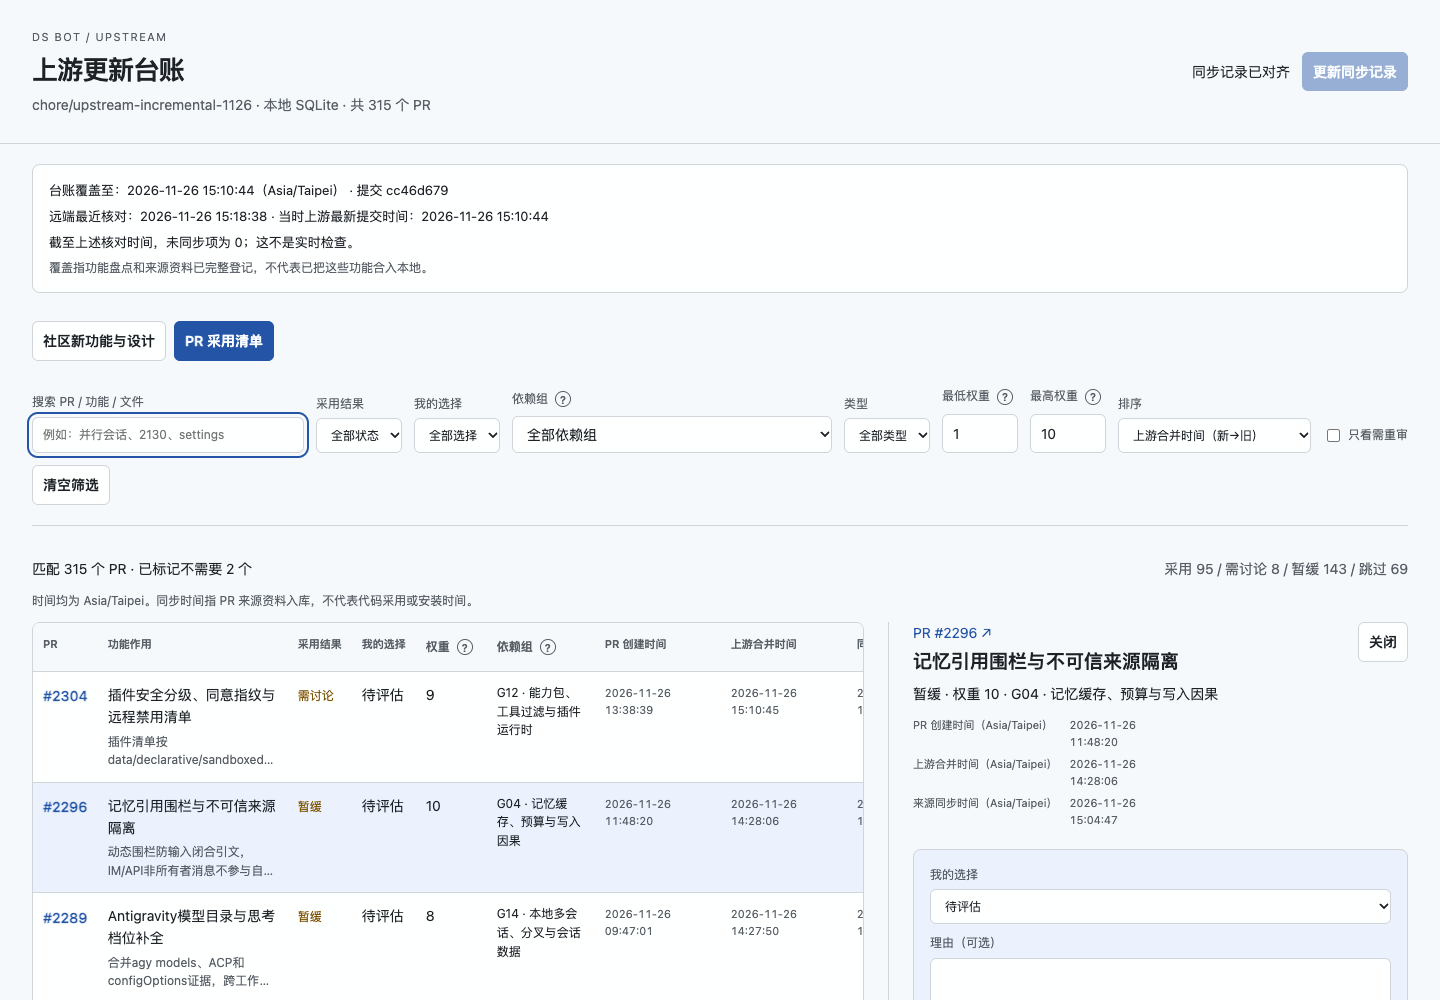
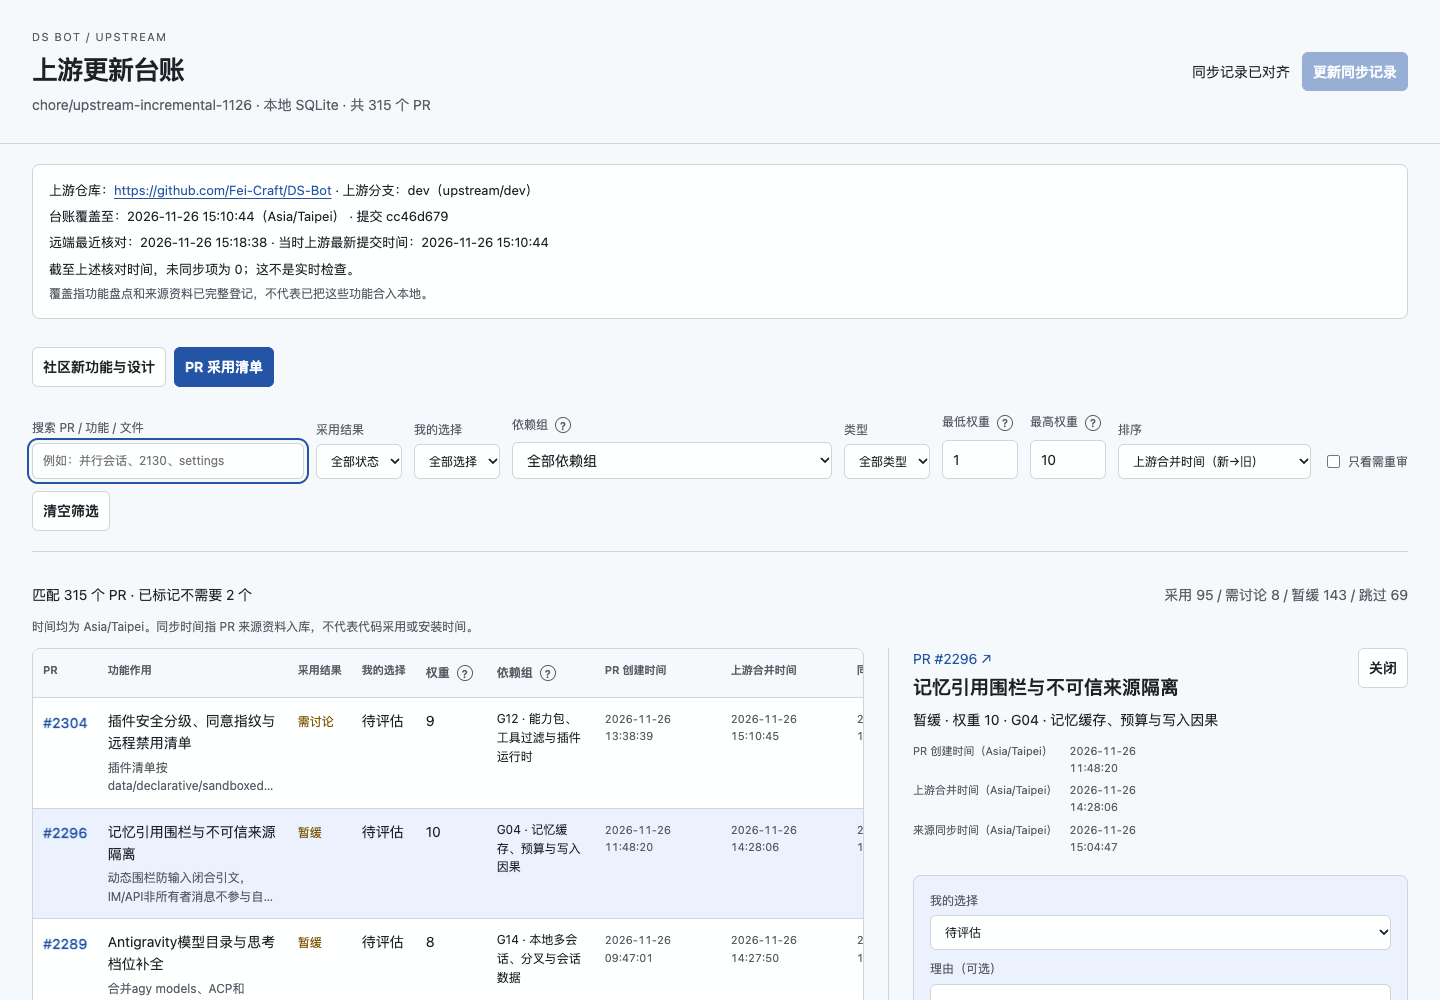
Show the upstream repository and source branch above catalog coverage

diff --git a/scripts/upstream-sync/upstream_catalog/assets/style.css b/scripts/upstream-sync/upstream_catalog/assets/style.css
@@ -8,3 +8,5 @@
 .view-nav{display:flex;gap:8px;margin-bottom:24px;flex-wrap:wrap}.view-nav button[aria-pressed="true"]{background:var(--accent);color:var(--surface);border-color:var(--accent)}.section-intro h2{margin:0 0 8px;font-size:20px}.section-intro p,.update-note{color:var(--muted);font-size:13px;max-width:90ch}.update-note{margin:14px 0 20px;padding:10px 12px;border-left:3px solid var(--accent);background:var(--tint)}#community-detail{min-width:0;position:sticky;top:20px;border-left:1px solid var(--line);padding:0 0 20px 24px;max-height:calc(100vh - 40px);overflow:auto}.entry-open{white-space:normal;text-align:left;font-weight:600}.entry-kind{display:block;font-size:11px;color:var(--muted);margin-top:5px}.local-counts{font-size:12px;min-width:95px}.source-links{display:flex;flex-wrap:wrap;align-items:center;gap:12px;margin:14px 0}.source-links a{color:var(--accent)}.source-panel,.related-pr,.design-reference{margin:16px 0;border-top:1px solid var(--line);padding-top:12px}.related-pr>summary{font-size:13px;line-height:1.6}.source-text{white-space:pre-wrap;overflow-wrap:anywhere;font:12px/1.7 -apple-system,BlinkMacSystemFont,"Segoe UI",sans-serif;max-width:75ch;color:var(--muted)}#community-notice{color:var(--bad);margin-top:12px}#community-empty{padding:24px;color:var(--muted)}@media(max-width:1000px){#community-detail{position:static;max-height:none;border-left:0;border-top:1px solid var(--line);padding:24px 0}}[hidden]{display:none!important}
 
 .coverage{margin:20px 32px 0;padding:14px 16px;border:1px solid var(--line);border-radius:8px;background:var(--surface);font-size:13px;line-height:1.7;overflow-wrap:anywhere}.coverage p+p{margin-top:4px}.coverage p:last-child{color:var(--muted);font-size:12px}@media(max-width:600px){.coverage{margin:16px 16px 0}}
+
+.coverage a{color:var(--accent);text-underline-offset:3px;overflow-wrap:anywhere}

diff --git a/scripts/upstream-sync/upstream_catalog/assets/app.js b/scripts/upstream-sync/upstream_catalog/assets/app.js
@@ -22,6 +22,9 @@ async function loadMeta() {
   $('context').textContent = `${meta.branch} · 本地 SQLite · 共 ${meta.total} 个 PR`
   const coverage = meta.coverage, panel = $('coverage')
   panel.replaceChildren()
+  const repository = element('p', '上游仓库：')
+  repository.append(element('a', meta.source.canonical_url, { href: meta.source.canonical_url, target: '_blank', rel: 'noopener noreferrer' }), document.createTextNode(` · 上游分支：${meta.source.branch}（upstream/${meta.source.branch}）`))
+  panel.append(repository)
   const date = value => value ? new Date(value).toLocaleString('sv-SE', { timeZone: 'Asia/Taipei' }) : '尚未记录'
   if (coverage) {
     panel.append(element('p', `台账覆盖至：${date(coverage.coveredAt)}（Asia/Taipei） · 提交 ${(coverage.checkpoint || '').slice(0, 8)}`))

diff --git a/scripts/upstream-sync/reviews/2026-11-26-upstream-incremental.md b/scripts/upstream-sync/reviews/2026-11-26-upstream-incremental.md
@@ -3,7 +3,7 @@
 本批分支`chore/upstream-incremental-1126`，基线`86410466`，工作树位于项目主目录`.worktree/chore%2Fupstream-incremental-1126/`。主dev仅作只读基线，未移植、合并、打包或部署上游应用代码；本批发布对象是台账与管理页。
 
 1. **排序区分明确。** 提供PR创建时间、上游合并时间、本地评估更新时间三种新到旧排序，原sort=time链接继续表示本地评估更新时间。SQLite按实际时刻比较不同UTC偏移，缺失排最后；主表与详情分别显示创建、合并、来源同步时间。#2028创建为11-22 12:08:23、合并17:26:15，不再用本地评估的更新时间冒充最新PR。
-2. **覆盖与观察分离。** 顶部完整覆盖时间来自checkpoint提交；远端观察独立保存checkedAt/tip。无核对显示未知，核对失败保留旧观察并显示异常，不以0暗示追平；零差距明确仅截至该次核对。待同步按第一父链的PR唯一键与直接提交数统计，先缓存但未评估的50项仍算未同步。完整评估前不推进终点，说明盘点完成不等于代码采用。
+2. **覆盖与观察分离。** 顶部直接显示可点击完整upstream仓库地址及上游dev（upstream/dev），不与当前本地工作分支混淆。 顶部完整覆盖时间来自checkpoint提交；远端观察独立保存checkedAt/tip。无核对显示未知，核对失败保留旧观察并显示异常，不以0暗示追平；零差距明确仅截至该次核对。待同步按第一父链的PR唯一键与直接提交数统计，先缓存但未评估的50项仍算未同步。完整评估前不推进终点，说明盘点完成不等于代码采用。
 3. **补齐50个PR与12个设计评估。** 区间bb1b1592→cc46d679，50个主线合并PR、0直接提交；315是包含侧分支内部提交的总数。50个新PR全部有中文功能、场景、效果、权重、状态、本地差异、原因、解法与验证边界；35暂缓、3需讨论、12跳过，代码均未实施。13个设计/索引发生变化，12个功能主题补正文与中文评估；当前48个设计/索引、129正文版本、224 PR关系。新头像与遥测待用户产品选择，手机/app/Windows项按既有排除处理。
 4. **现有记录和选择保留。** 现有265个PR的采用状态、权重与创建/合并/来源同步时间逐项对比迁移前备份一致；全部3条用户偏好逐列一致，2039/2042仍不需要。台账共315 PR，Markdown完整联合键去重核对315条无重复，新增50项说明与来源集合完全一致。原有19个PR因当前本地代码与来源文件重叠被标记需重审，保留旧采用状态，不能把重审标记误当代码冲突或撤回采用。主库integrity与外键检查通过。
 5. **实际验证。** 37项隔离自动测试通过，新增日期排序/时区/缺失、观察不推进覆盖与失败状态、新行导出包含差异/场景/不需要选择及幂等性。真实浏览器验证三种排序与API顺序一致、旧链接标签、2028时间、新增2296解释、两个不需要项、社区新设计和390px窄屏；无脚本错误。JS语法、skill结构、Git差异格式通过。浏览器脚本与自有Chrome进程退出、临时目录已清理，预览4186只用于本批检查，最终交付后停止；日用DSH未停止或重启。

diff --git a/scripts/upstream-sync/upstream-changelog.md b/scripts/upstream-sync/upstream-changelog.md
@@ -11,7 +11,7 @@
 
 社区方向：消息协调独立SQLite与逻辑寻址（#2271）、上下文/本地CLI统一与工具输出召回（#2275/#2284/#2286/#2287）、记忆不可信来源与删除保护（#2296）、一次性密钥与1Password（#2188）、自定义快捷键（#2274）、插件外观与独立前端分离（#2260）。新头像（#2168）与匿名遥测（#2272）需产品选择，不擅自替换现有UI或开启外发。检查13个设计/索引变化，12个功能设计补完整中文说明，目录索引单列；SQLite保存原文版本与PR关系。
 
-页面明确区分PR创建、上游合并和本地评估更新时间；顶部显示覆盖提交时间、远端核对时间及当时未同步PR/直接提交数量，未知/失败不显示已追平。全部新来源与设计评估完成后才推进完整终点；验证见[回执](reviews/2026-11-26-upstream-incremental.md)。
+顶部直接显示可点击upstream仓库地址与上游分支；页面明确区分PR创建、上游合并和本地评估更新时间；顶部显示覆盖提交时间、远端核对时间及当时未同步PR/直接提交数量，未知/失败不显示已追平。全部新来源与设计评估完成后才推进完整终点；验证见[回执](reviews/2026-11-26-upstream-incremental.md)。
 
 收尾再次核对上游时新增#2304，已一并补入，固定终点扩至cc46d679。插件分级/同意指纹/远程禁用策略列需讨论：本地缺Bot插件体系；最终代码仅声明校验，真实受限沙箱尚未落地，禁用清单不能据PR摘要认定有密码学签名。设计中的12月05日文字不作为来源提交时间。两次有变化的区间合记为本批50项，保留sync_runs过程记录。
 

diff --git a/.agents/skills/sync-upstream/SKILL.md b/.agents/skills/sync-upstream/SKILL.md
@@ -174,3 +174,5 @@ python3 scripts/upstream-sync/upstream-catalog.py sync --fetch --to upstream/dev
 - 每次同步新进展先用check-upstream或sync --fetch保存远端观察时间和tip。顶部显示完整checkpoint的提交时间、最近远端核对时间及主线未同步PR/直接提交数，不用入库/管理页修改时间冒充覆盖时间。零差距仅截至该次核对，不称实时；无观察、失败或历史不连续显示未知/异常。
 - 按来源仓库ID+PR号（直接提交按完整SHA）对账；补齐功能/场景/阶段/差异/状态/权重/解法再推进终点，保留用户不需要及旧采用事实。总Git提交数包含侧分支内部提交，不能当PR数。
 - 只盘点时注明代码未实施，暂缓写明依赖、本地不同实现与验证缺口；不把未移植写成已采用，不把同文件改动当真实行为冲突。
+
+- 顶部覆盖信息区域直接显示可点击的upstream完整仓库地址与来源分支，从SQLite已确认来源读取，不仅藏在折叠存储详情中；地址或来源变更时同步核对remote与仓库ID。

diff --git a/scripts/upstream-sync/README.md b/scripts/upstream-sync/README.md
@@ -108,3 +108,5 @@ python3 scripts/upstream-sync/upstream-catalog.py list --sort merged
 ```
 
 check-upstream核对远端dev（缺少Git对象时获取），只保存观察，不推进完整盘点，不合并代码。只读页面与inspect不联网；常规sync --fetch也保存远端观察。GET /api/meta追加coverage；PR查询增加pr_merged_at（GitHub合并时间，缺失时回退固定合入提交时间），createdAt/sourceSyncedAt/updated_at含义不变。新增PR导出包含场景、本地差异、验证与用户选择，按仓库ID+PR号去重。
+
+页面顶部直接显示上游仓库完整可点击地址和来源分支，取自已确认来源的canonical_url/branch；链接新窗口打开并带noopener，存储说明继续保留来源详情。
